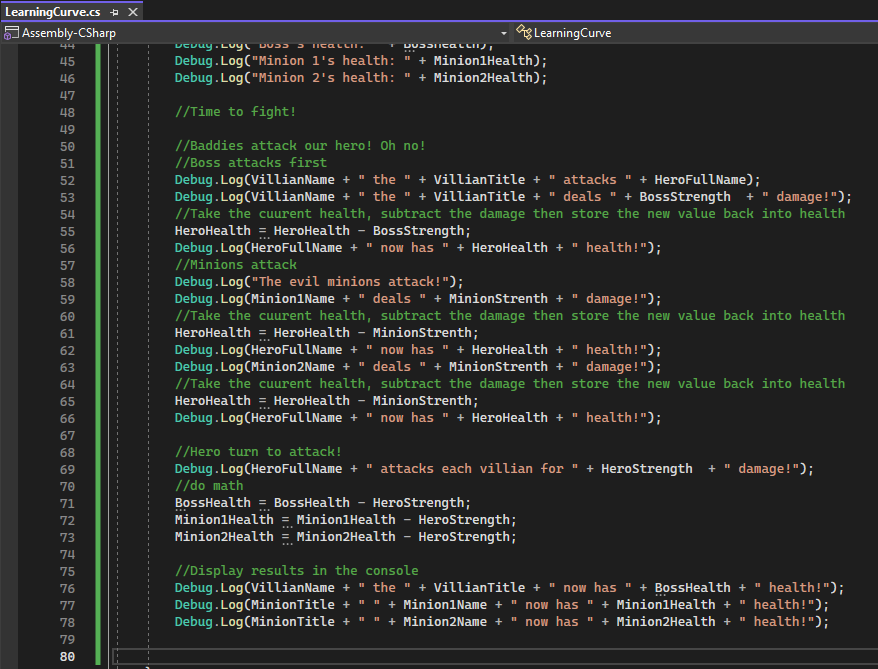
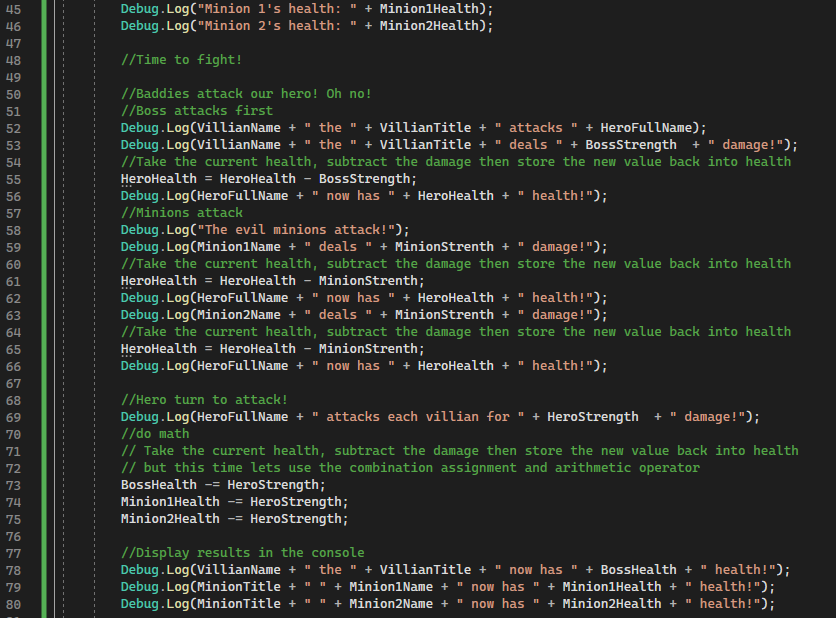
updated part of the script to use an assignment and arithmetic operator.
- updated image and code reference as well

minor
- fixed a typo in the comment

Changed region(s): [[0.0, 0.0, 1.0, 1.0]]

diff --git a/exercises/exploring_variables/exploring_variables.md b/exercises/exploring_variables/exploring_variables.md
@@ -204,26 +204,28 @@ public class LearningCurve : MonoBehaviour
         //Boss attacks first
         Debug.Log(VillianName + " the " + VillianTitle + " attacks " + HeroFullName);
         Debug.Log(VillianName + " the " + VillianTitle + " deals " + BossStrength  + " damage!");
-        //Take the cuurent health, subtract the damage then store the new value back into health
+        //Take the current health, subtract the damage then store the new value back into health
         HeroHealth = HeroHealth - BossStrength;
         Debug.Log(HeroFullName + " now has " + HeroHealth + " health!");
         //Minions attack
         Debug.Log("The evil minions attack!");
         Debug.Log(Minion1Name + " deals " + MinionStrenth + " damage!");
-        //Take the cuurent health, subtract the damage then store the new value back into health
+        //Take the current health, subtract the damage then store the new value back into health
         HeroHealth = HeroHealth - MinionStrenth;
         Debug.Log(HeroFullName + " now has " + HeroHealth + " health!");
         Debug.Log(Minion2Name + " deals " + MinionStrenth + " damage!");
-        //Take the cuurent health, subtract the damage then store the new value back into health
+        //Take the current health, subtract the damage then store the new value back into health
         HeroHealth = HeroHealth - MinionStrenth;
         Debug.Log(HeroFullName + " now has " + HeroHealth + " health!");
 
         //Hero turn to attack!
         Debug.Log(HeroFullName + " attacks each villian for " + HeroStrength  + " damage!");
         //do math
-        BossHealth = BossHealth - HeroStrength;
-        Minion1Health = Minion1Health - HeroStrength;
-        Minion2Health = Minion2Health - HeroStrength;
+        // Take the current health, subtract the damage then store the new value back into health
+        // but this time lets use the combination assignment and arithmetic operator
+        BossHealth -= HeroStrength;
+        Minion1Health -= HeroStrength;
+        Minion2Health -= HeroStrength;
 
         //Display results in the console
         Debug.Log(VillianName + " the " + VillianTitle + " now has " + BossHealth + " health!");
